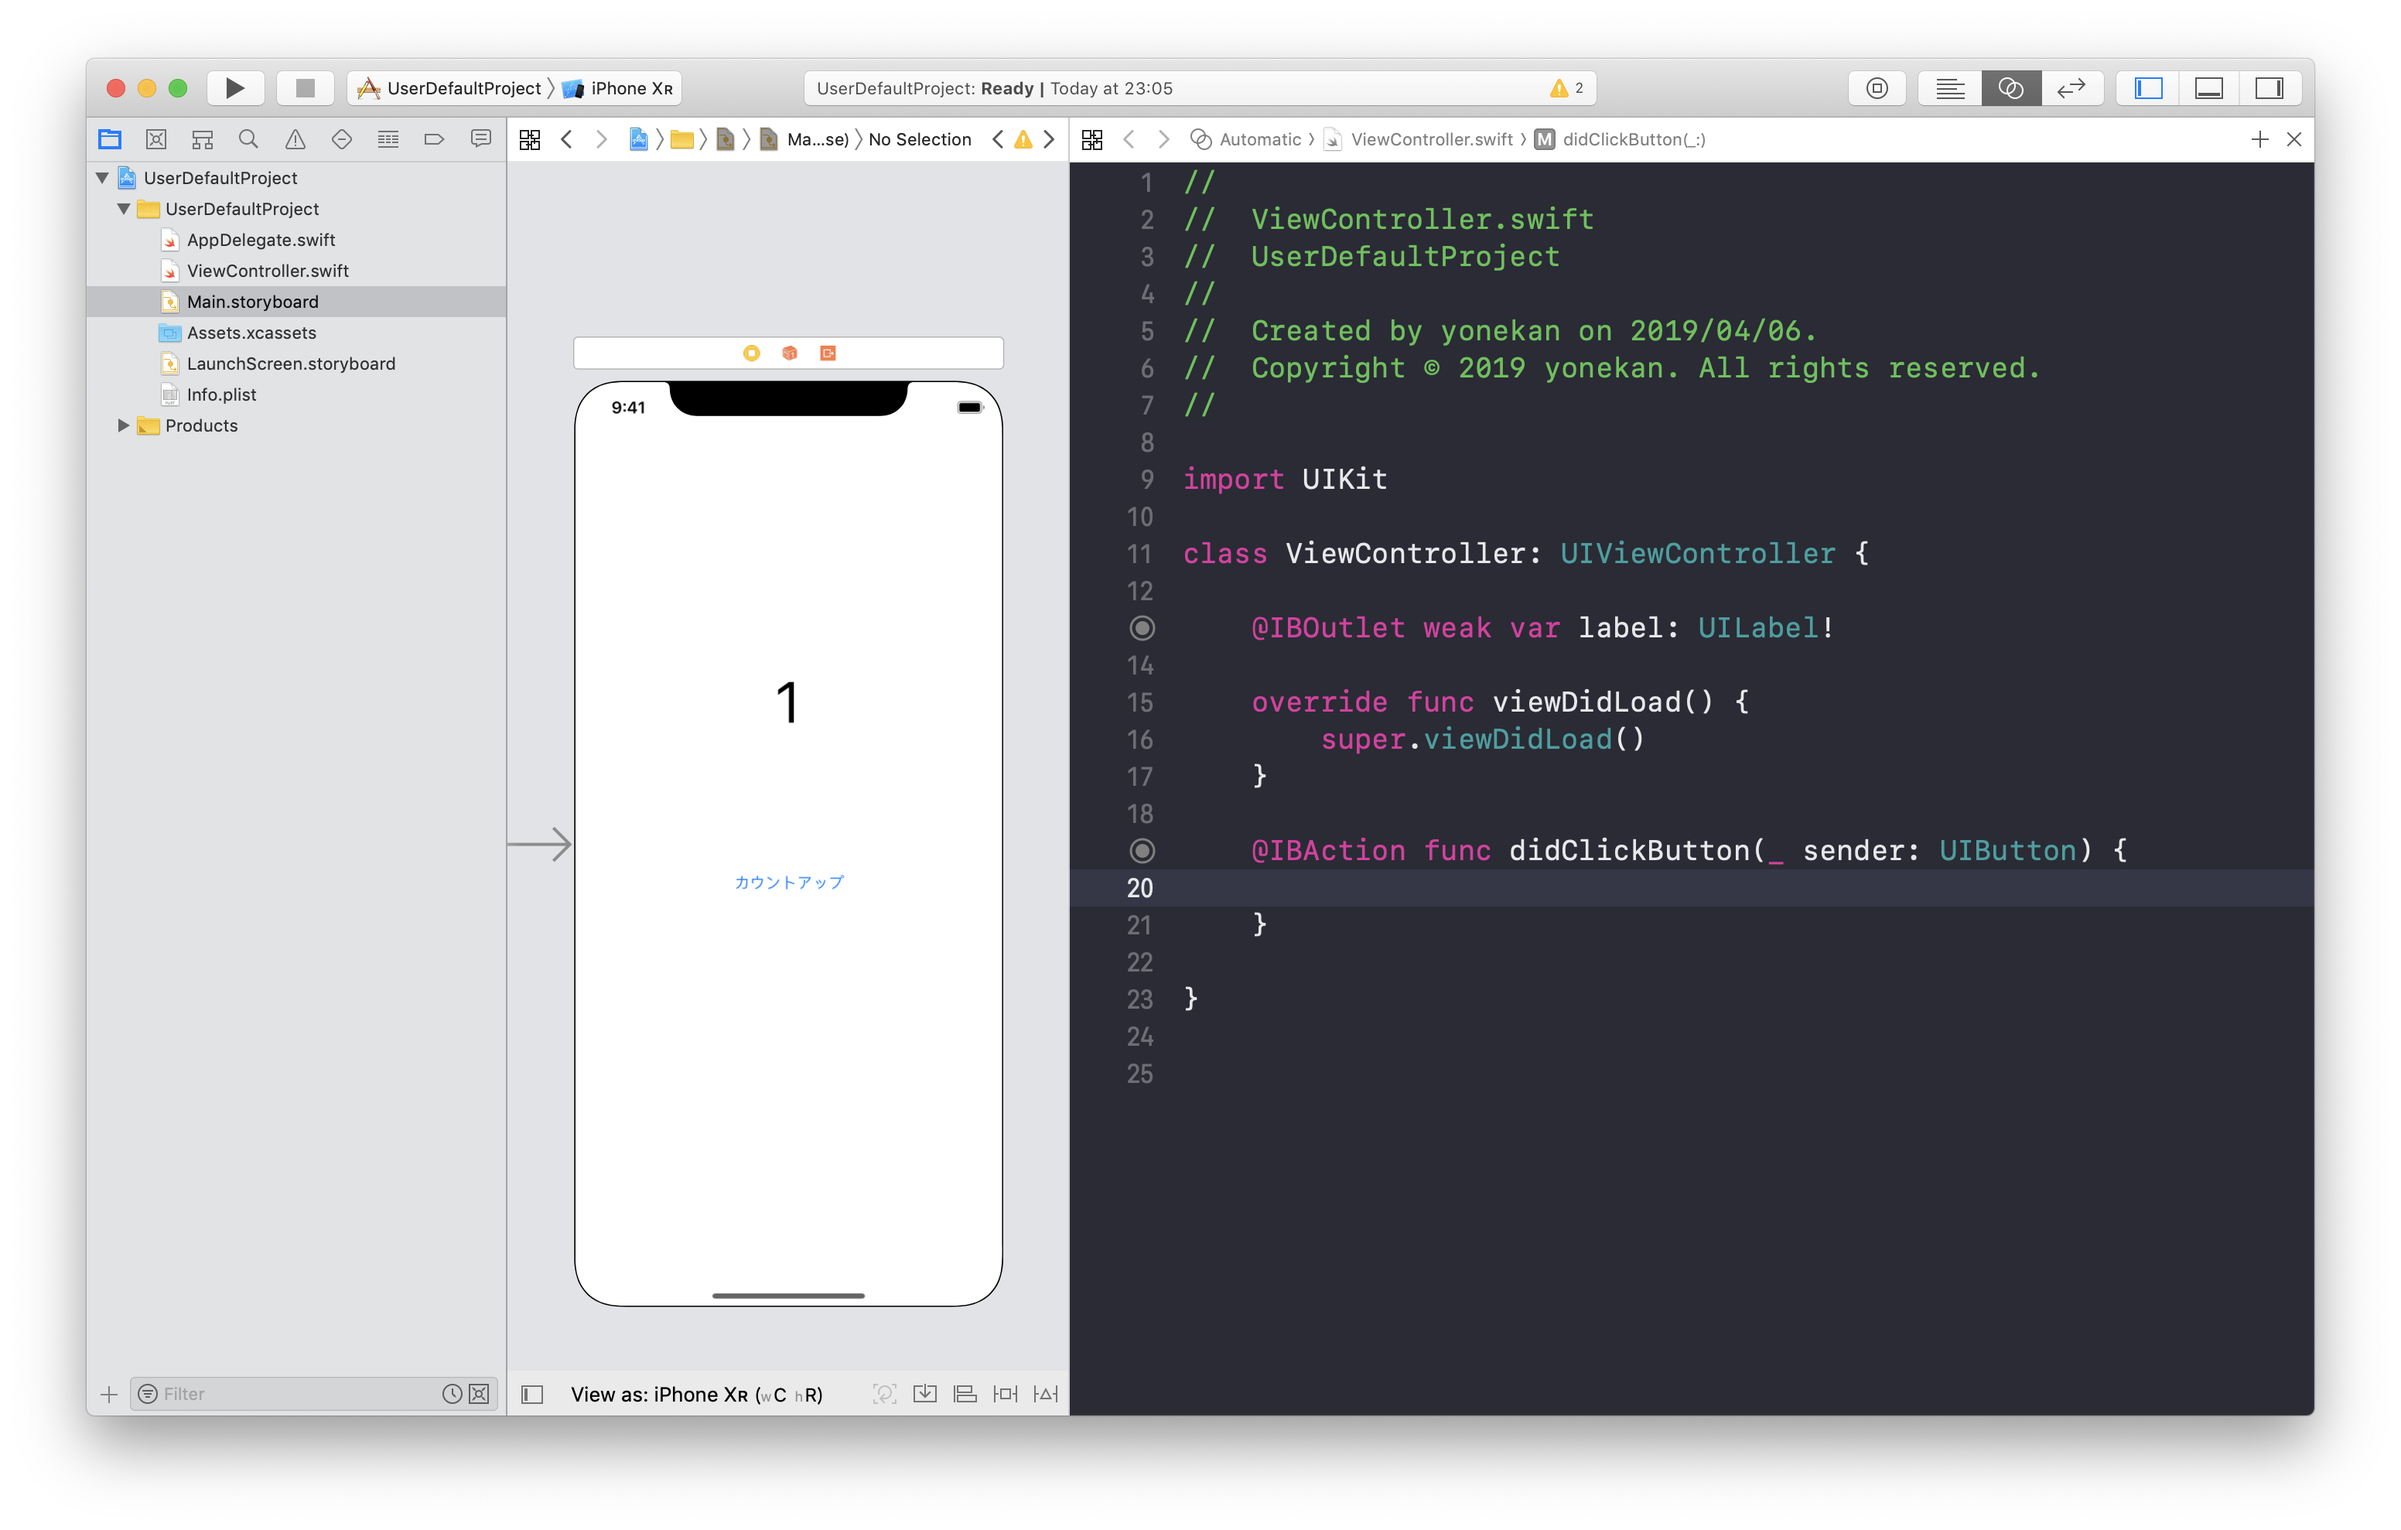
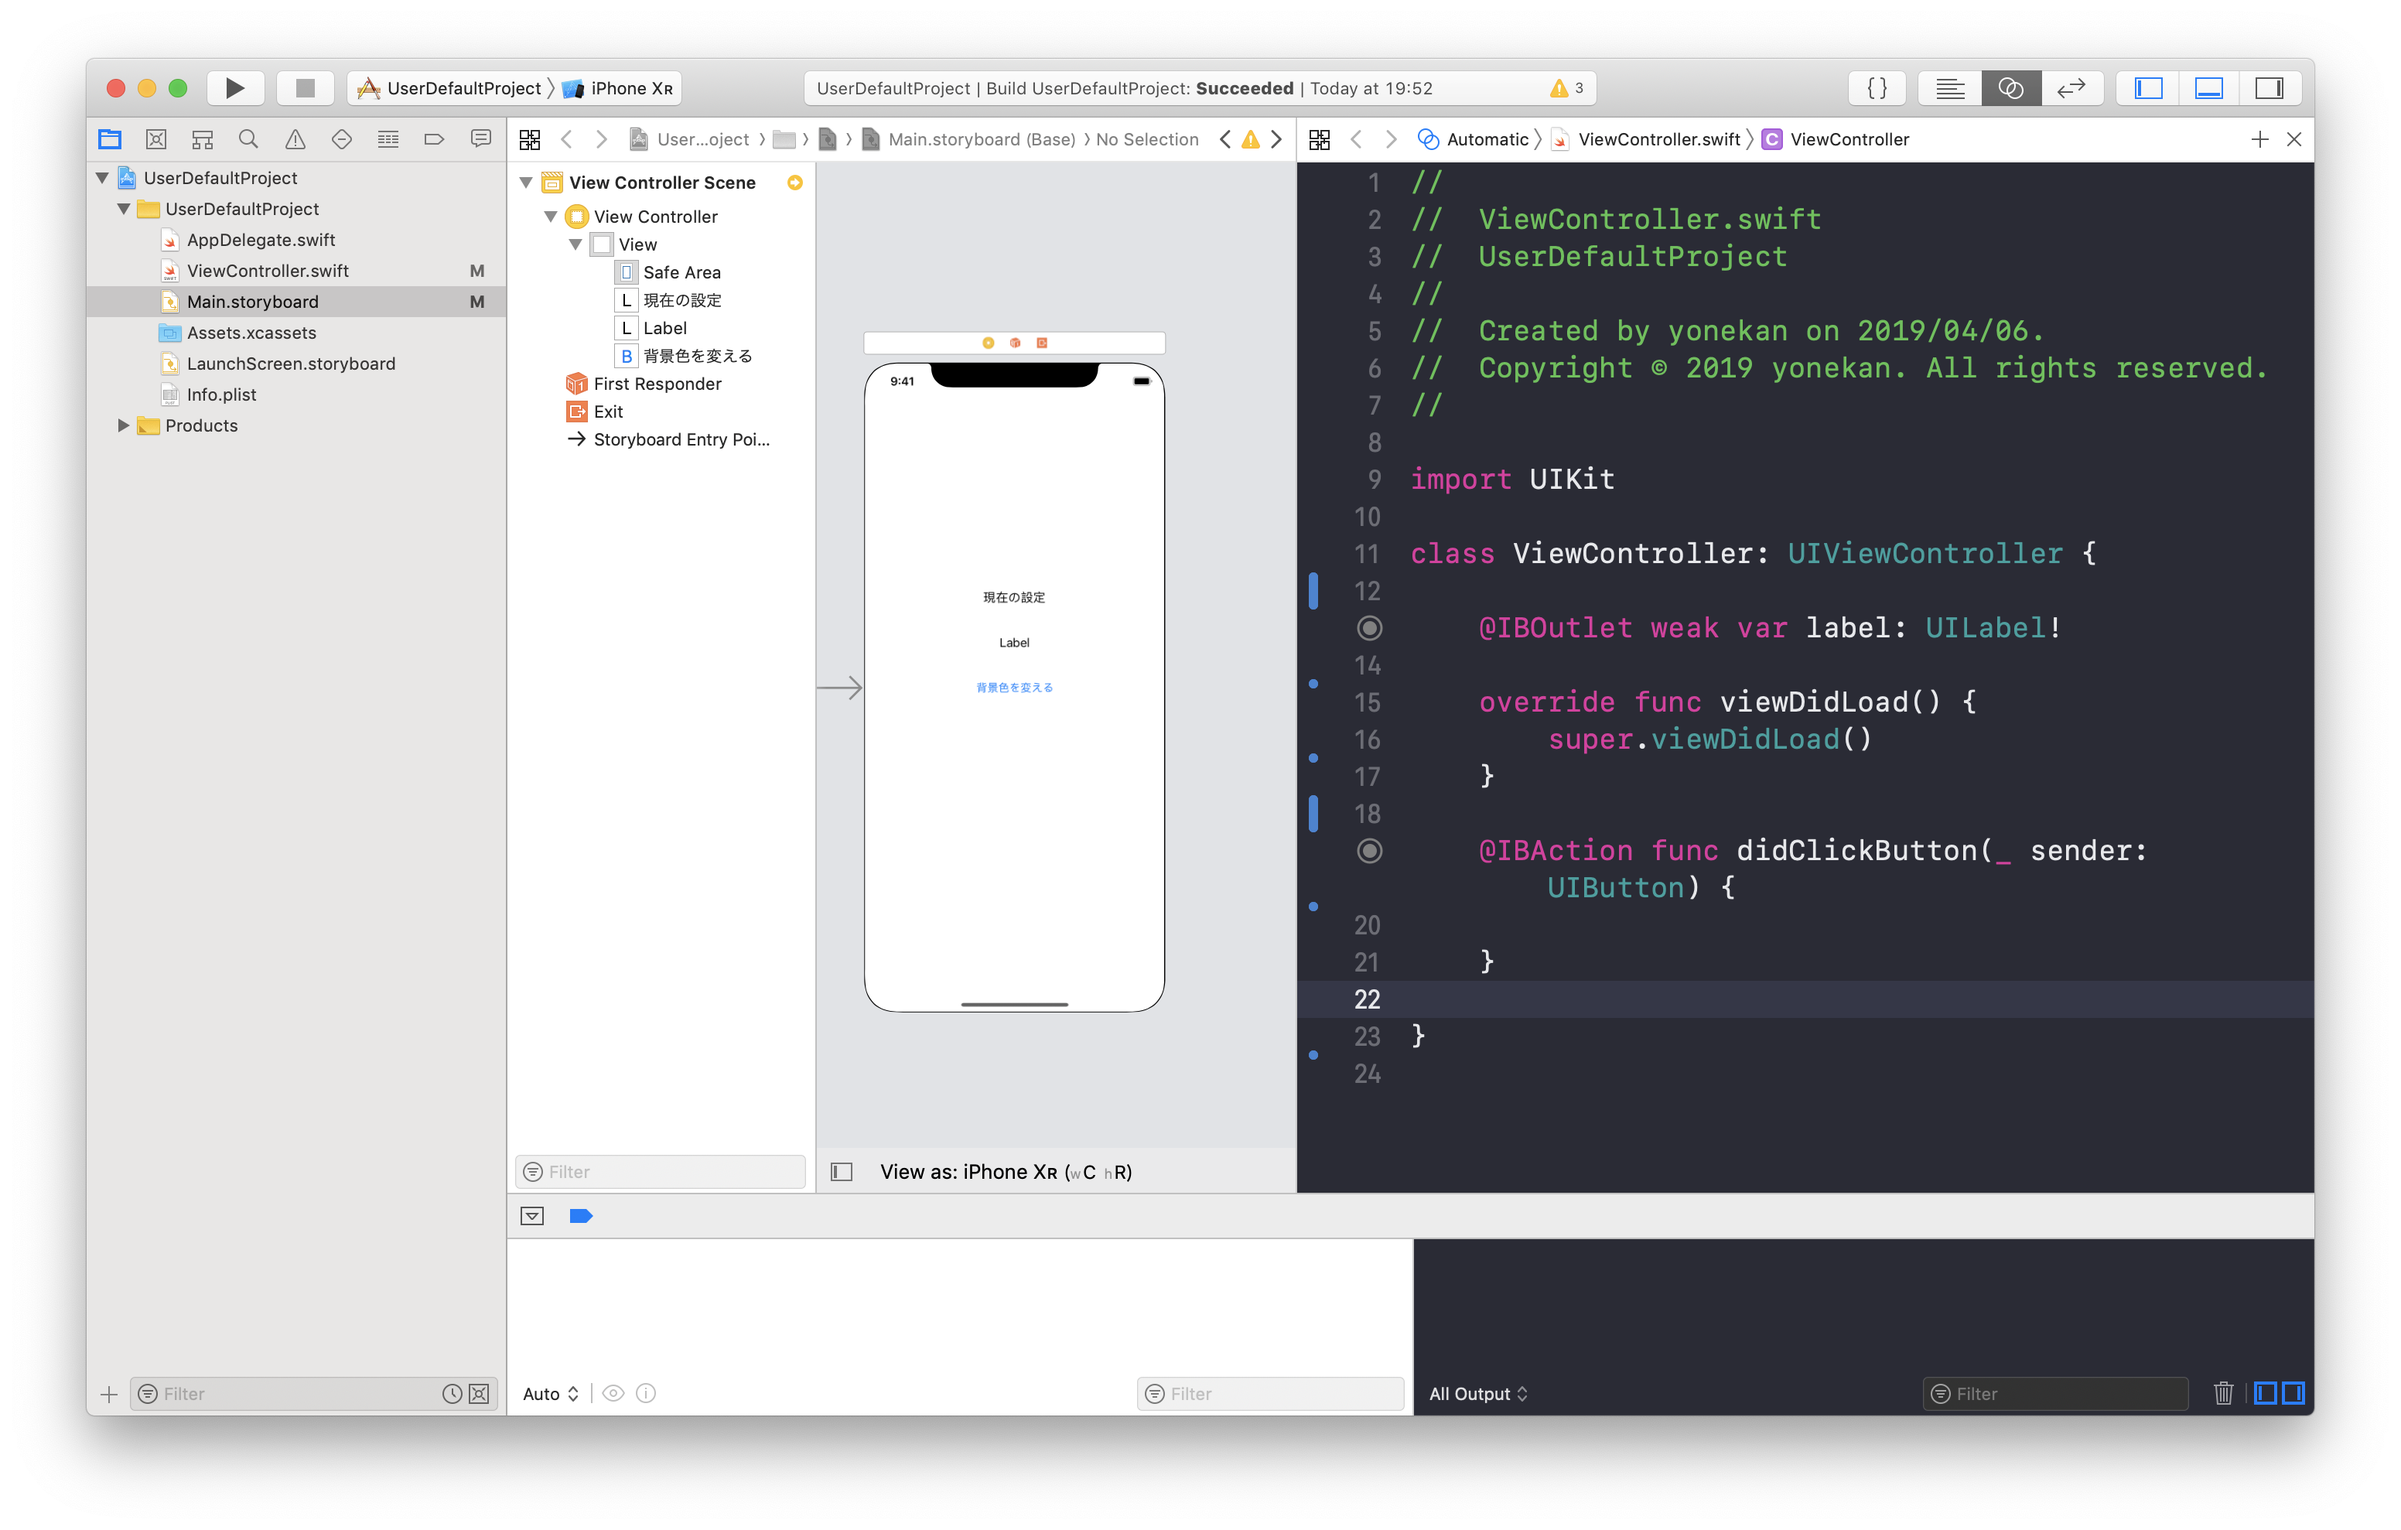
no message

diff --git a/swift/03_iPhoneSpecificFeatures/各パーツ/03_UserDefault.md b/swift/03_iPhoneSpecificFeatures/各パーツ/03_UserDefault.md
@@ -13,8 +13,7 @@ UserDefaultを使うとデータを保存することができ、そのデータ
 
 ## 開発の流れ
 1. 画面の部品を配置する
-2. タップ処理を追加する
-3. スワイプ処理を追加する
+2. ボタン押下時処理を追加する
 
 ## 開発しよう
 1. プロジェクトを作成する  
@@ -38,71 +37,132 @@ UserDefaultを使うとデータを保存することができ、そのデータ
         > この作業をすることで、画面サイズによるデザインのずれを解決します。
         ![Swiftロゴ](./img/add_containts.gif)
 
-3. カウントアップ処理を追加する
-    1. タップした回数を保持する変数を定義する。
+4. ボタン押下時処理を追加する
+    1. ボタンを押されるたびにカウントアップする変数を作成する。  
+
+      ```
+      @IBOutlet weak var label: UILabel!
+
+      以下を追加
+      var colorOpt = 0
+      ```
+
+      > 変数colorOptの値が0の場合：White、1の場合：LightGray、2の場合：DarkGrayを背景色に設定するようにしていきます。
+
+    2. 変数colorOptの値に応じて、画面の背景色を設定する関数を作成する。
+
+      関数名：changeBgColor
+      処理内容：以下の表の条件通り、画面の背景色を変更する
+
+      |条件|背景色|
+      |---|---|
+      |デフォルト|White|
+      |変数colorOptの値が1|LightGray|
+      |変数colorOptの値が2|DarkGray|
+
+      ```
+      func changeBgColor() {
+        switch colorOpt {
+        case 1:
+            view.backgroundColor = .lightGray
+        case 2:
+            view.backgroundColor = .darkGray
+        default:
+            view.backgroundColor = .white
+        }
+      }
+      ```
+
+      3. 変数colorOptの値に応じて、ラベルの文字を設定する関数を作成する。
+
+        関数名：changeLabel
+        処理内容：以下の表の条件通り、ラベルの文字を設定する
+
+        |条件|背景色|
+        |---|---|
+        |デフォルト|White|
+        |変数colorOptの値が1|LightGray|
+        |変数colorOptの値が2|DarkGray|
 
         ```
-        @IBOutlet weak var label: UILabel!
-    
-        以下を追加
-        var count = 0
-        ```
-
-    2. ```didClickButton```メソッドに回数をカウントアップする処理を追加する。
-
-        ```
-        @IBAction func didClickButton(_ sender: UIButton) {
-          count += 1
-          label.text = "\(count)"
+        func changeLabel() {
+          switch colorOpt {
+          case 1:
+              label.text = "LightGray"
+          case 2:
+              label.text = "DarkGray"
+          default:
+              label.text = "White"
+          }
         }
         ```
 
-    3. 画面の初期表示時に、Labelに初期カウントを設定する
+      4. ボタンが押された時、背景色とラベルの文字を変更する処理を追記する  
+      ```didClickButton```メソッドに以下の処理を追記する
 
         ```
-        override func viewDidLoad() {
-          super.viewDidLoad()
+        if colorOpt == 2 {
+            colorOpt = 0
+        } else {
+            colorOpt += 1
+        }
         
-          label.text = "\(count)"
-        }
-        ```
-
-    4. 実行してみる  
-        <img src="./img/UserDefaultProject01.gif" width="300px">
-
-        > 実行してみてわかるとおり、今の段階だとアプリを閉じるとカウントが0に戻ってしまいます。
-        > これからUserDefaultでカウントを保存する処理を追加していきます。
-
-4. UserDefaultを使ってカウントを保存する処理を追記する
-
-    1. ```didClickButton```メソッドにカウントをUserDefaultに保存する処理を追記する。  
-    以下の処理を追記してください
-
-        ```
-        let userDefault = UserDefaults.standard
-        userDefault.set(count, forKey: "currentCount")
+        changeBgColor()
+        changeLabel()
         ```
 
         追記後の```didClickButton```メソッド
 
         ```
         @IBAction func didClickButton(_ sender: UIButton) {
-          count += 1
-          label.text = "\(count)"
-        
-          let userDefault = UserDefaults.standard
-          userDefault.set(count, forKey: "currentCount")
-        
+          if colorOpt == 2 {
+            colorOpt = 0
+          } else {
+              colorOpt += 1
+          }
+          
+          changeBgColor()
+          changeLabel()
         }
         ```
 
-5. UserDefaultから前回のカウントを取得する処理を追記する
+      5. 実行してみる
+      <img src="./img/UserDefaultProject01.gif" width="300px">
 
-    1. ```viewDidLoad```メソッドにUserDefaultから前回のカウントを取得する処理を追記する  
+5. ```didClickButton```メソッドに変数colorOptの値をUserDefaultに保存する処理を追記する。  
     以下の処理を追記してください
 
         ```
-        count = userDefault.integer(forKey: "currentCount")
+        let userDefault = UserDefaults.standard
+        userDefault.set(colorOpt, forKey: "colorOpt")
+        ```
+
+        追記後の```didClickButton```メソッド
+
+        ```
+        @IBAction func didClickButton(_ sender: UIButton) {
+          if colorOpt == 2 {
+              colorOpt = 0
+          } else {
+              colorOpt += 1
+          }
+          
+          changeBgColor()
+          changeLabel()
+          
+          let userDefault = UserDefaults.standard
+          userDefault.set(colorOpt, forKey: "colorOpt")
+        }
+        ```
+
+6. UserDefaultから保存されている変数colorOptの値を取得する処理を追記する
+
+    1. ```viewDidLoad```メソッドにUserDefaultから保存されている変数colorOptの値を取得する処理を追記する  
+    以下の処理を追記してください
+
+        ```
+        let userDefault = UserDefaults.standard
+        colorOpt = userDefault.integer(forKey: "colorOpt")
         ```
 
         追記後の```viewDidLoad```メソッド
@@ -112,10 +172,31 @@ UserDefaultを使うとデータを保存することができ、そのデータ
           super.viewDidLoad()
         
           let userDefault = UserDefaults.standard
-          count = userDefault.integer(forKey: "currentCount")
-          label.text = "\(count)"
+          colorOpt = userDefault.integer(forKey: "colorOpt")
         }
         ```
+
+    2. ```viewDidLoad```メソッドに変数colorOptの値に応じて、背景色とラベルの文字を設定する処理を追記する  
+    以下の処理を追記してください
+
+      ```
+      changeBgColor()
+      changeLabel()
+      ```
+
+      追記後の```viewDidLoad```メソッド
+
+      ```
+      override func viewDidLoad() {
+        super.viewDidLoad()
+        
+        let userDefault = UserDefaults.standard
+        colorOpt = userDefault.integer(forKey: "colorOpt")
+        
+        changeBgColor()
+        changeLabel()
+      }
+      ```
 
 ## 実行してみよう
 <img src="./img/UserDefaultProject02.gif" width="300px">
